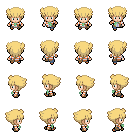
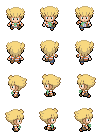
rivale mezzo sistemato

diff --git a/core/src/com/mercurio/game/personaggi/Rivale.java b/core/src/com/mercurio/game/personaggi/Rivale.java
@@ -36,51 +36,27 @@ public class Rivale {
     public Rivale() {
         //modificare l'assets per mettere quello effettivo del rivale
         Texture texture = new Texture(Gdx.files.internal("assets/player/barry.png"));
-        tmp = TextureRegion.split(texture, texture.getWidth() / 4, texture.getHeight() / 4);
+        tmp = TextureRegion.split(texture, texture.getWidth() / 3, texture.getHeight() / 4);
 
         indietro = new TextureRegion[3];
         sinistra = new TextureRegion[3];
         destra = new TextureRegion[3];
         avanti = new TextureRegion[3];
         for (int i = 0; i < 4; i++) {
-            for (int j = 0; j < 4; j++) {
+            for (int j = 0; j < 3; j++) {
                 if (i == 0) {
-                    if (j == 0) {
-                        indietro[0] = tmp[i][j];
-                    } else if (j == 1) {
-                        indietro[1] = tmp[i][j];
-                    } else if (j == 3) {
-                        indietro[2] = tmp[i][j];
-                    }
+                    indietro[j] = tmp[i][j];
                 } else if (i == 1) {
-                    if (j == 0) {
-                        avanti[0] = tmp[i][j];
-                    } else if (j == 1) {
-                        avanti[1] = tmp[i][j];
-                    } else if (j == 3) {
-                        avanti[2] = tmp[i][j];
-                    }
+                    avanti[j] = tmp[i][j];
                 } else if (i == 2) {
-                    if (j == 0) {
-                        sinistra[0] = tmp[i][j];
-                    } else if (j == 1) {
-                        sinistra[1] = tmp[i][j];
-                    } else if (j == 3) {
-                        sinistra[2] = tmp[i][j];
-                    }
+                    sinistra[j] = tmp[i][j];
                 } else if (i == 3) {
-                    if (j == 0) {
-                        destra[0] = tmp[i][j];
-                    } else if (j == 1) {
-                        destra[1] = tmp[i][j];
-                    } else if (j == 3) {
-                        destra[2] = tmp[i][j];
-                    }
+                    destra[j] = tmp[i][j];
                 }
             }
         }
 
-        fermoSinistra = new Animation<>(camminataFrame_speed, sinistra[2]);
+        fermoSinistra = new Animation<>(camminataFrame_speed, sinistra[0]);
         fermoDestra = new Animation<>(camminataFrame_speed, destra[0]);
         fermoAvanti = new Animation<>(camminataFrame_speed, avanti[0]);
         fermoIndietro = new Animation<>(camminataFrame_speed, indietro[0]);
@@ -102,22 +78,22 @@ public class Rivale {
     public void muoviBotBasso() {
         stateTime += Gdx.graphics.getDeltaTime();
         currentAnimation = camminaIndietro.getKeyFrame(stateTime, true);
-        characterPosition.y -= 60f * Gdx.graphics.getDeltaTime();
+        characterPosition.y -= 40f * Gdx.graphics.getDeltaTime();
     }
     public void muoviBotAlto() {
         stateTime += Gdx.graphics.getDeltaTime();
         currentAnimation = camminaAvanti.getKeyFrame(stateTime, true);
-        characterPosition.y += 60f * Gdx.graphics.getDeltaTime();
+        characterPosition.y += 40f * Gdx.graphics.getDeltaTime();
     }
     public void muoviBotDestra() {
         stateTime += Gdx.graphics.getDeltaTime();
         currentAnimation = camminaDestra.getKeyFrame(stateTime, true);
-        characterPosition.x += 60f * Gdx.graphics.getDeltaTime();
+        characterPosition.x += 40f * Gdx.graphics.getDeltaTime();
     }
     public void muoviBotSinistra() {
         stateTime += Gdx.graphics.getDeltaTime();
         currentAnimation = camminaSinistra.getKeyFrame(stateTime, true);
-        characterPosition.x -= 60f * Gdx.graphics.getDeltaTime();
+        characterPosition.x -= 40f * Gdx.graphics.getDeltaTime();
     }
 
     //funzioni per settare animazione bot

diff --git a/core/src/com/mercurio/game/Screen/Laboratorio.java b/core/src/com/mercurio/game/Screen/Laboratorio.java
@@ -632,6 +632,7 @@ public class Laboratorio extends ScreenAdapter implements InterfacciaComune {
             faiSalireRivale3 = false;
             iniziaDiscorso4Rivale = true;
             continuaTesto = true;
+            rivale.setFermoAvanti();
         }
     }
 
